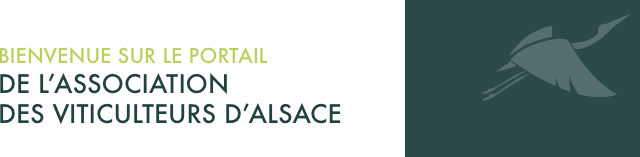
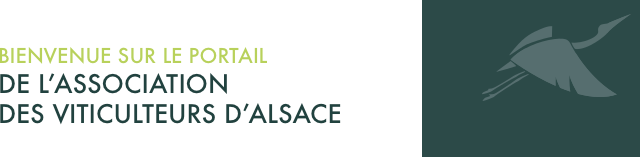
Homogénéisation des couleurs pour l'encard de droite du header

Changed region(s): [[0.625, 0.0, 0.6562, 1.0]]

diff --git a/project/web/css/compile.css b/project/web/css/compile.css
@@ -449,7 +449,7 @@ ul.error_list {
   color: #6e6e6e;
 }
 .text-primary {
-  color: #105251;
+  color: #2c4a48;
 }
 a.text-primary:hover {
   color: #082727;
@@ -481,7 +481,7 @@ a.text-danger:hover {
 }
 .bg-primary {
   color: #fff;
-  background-color: #105251;
+  background-color: #2c4a48;
 }
 a.bg-primary:hover {
   background-color: #082727;
@@ -2965,7 +2965,7 @@ input[type="button"].btn-block {
   color: #ffffff;
   text-decoration: none;
   outline: 0;
-  background-color: #105251;
+  background-color: #2c4a48;
 }
 .dropdown-menu > .disabled > a,
 .dropdown-menu > .disabled > a:hover,
@@ -3506,7 +3506,7 @@ select[multiple].input-group-sm > .input-group-btn > .btn {
 .nav-pills > li.active > a:hover,
 .nav-pills > li.active > a:focus {
   color: #ffffff;
-  background-color: #105251;
+  background-color: #2c4a48;
 }
 .nav-stacked > li {
   float: none;
@@ -3622,8 +3622,8 @@ select[multiple].input-group-sm > .input-group-btn > .btn {
 .pagination > .active > span:focus {
   z-index: 2;
   color: #ffffff;
-  background-color: #105251;
-  border-color: #105251;
+  background-color: #2c4a48;
+  border-color: #2c4a48;
   cursor: default;
 }
 .pagination > .disabled > span,
@@ -3894,8 +3894,8 @@ a.list-group-item.active:hover,
 a.list-group-item.active:focus {
   z-index: 2;
   color: #ffffff;
-  background-color: #105251;
-  border-color: #105251;
+  background-color: #2c4a48;
+  border-color: #2c4a48;
 }
 a.list-group-item.active .list-group-item-heading,
 a.list-group-item.active:hover .list-group-item-heading,
@@ -5910,7 +5910,7 @@ disabled look for disabled choices in the results dropdown
  */
 .select2-results .select2-highlighted {
   color: #ffffff;
-  background-color: #105251;
+  background-color: #2c4a48;
 }
 /**
  * Adjust alignment of Bootstrap 3 buttons in Bootstrap 3 Input Groups to address
@@ -7737,7 +7737,7 @@ input[type="radio"] {
   right: 0;
   bottom: 0;
   left: auto;
-  background: #105251;
+  background: #2c4a48;
   color: #ffffff;
   padding: 10px 20px;
   text-align: right;
@@ -7850,7 +7850,7 @@ input[type="radio"] {
 }
 .first-connection h2,
 .space-member h2 {
-  color: #105251;
+  color: #2c4a48;
   padding-bottom: 10px;
   font-size: 22px;
 }
@@ -7875,7 +7875,7 @@ ul.list-group-history a {
   text-align: center;
 }
 .presentation-services h3 {
-  color: #105251;
+  color: #2c4a48;
   margin-top: 0;
   margin-bottom: 20px;
   text-transform: uppercase;

diff --git a/project/web/less/bootstrap_vars.less b/project/web/less/bootstrap_vars.less
@@ -23,7 +23,7 @@
 // -------------------------
 
 @green-darker:          #2c4a48;
-@green-dark:            #105251;
+@green-dark:            #2c4a48;
 @green:                 darken(#b9cf62, 4%);          
 @green-light:           #b9cf62;          
 

diff --git a/project/web/less/global.less b/project/web/less/global.less
@@ -1822,7 +1822,7 @@ ul.radio_list li, ul.checkbox_list
 #navigation, #navigation-admin
 {	
     .pos-abs(0, 0, 0);
-    background: #105251;
+    background: #2c4a48;
     color: @white;
     padding: 10px 20px;
     text-align: right;
